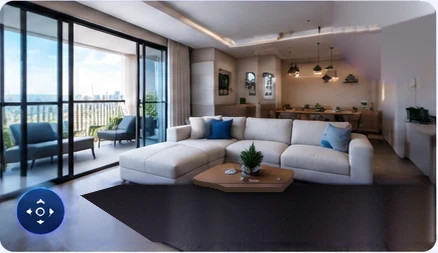
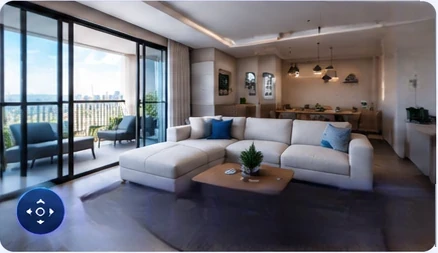
fix(fachada): foto da apresentacao digital preenchida com o LaMa
O preenchimento feito a mao (tapete liso, mesa desenhada) nao convencia. O
selo 360 e a faixa de miniaturas agora sao preenchidos pelo LaMa
(Carve/LaMa-ONNX, local): tapete com textura, sombra da mesa e o canto do
teto/parede saem naturais. A moldura arredondada e refeita depois.

Changed region(s): [[0.742, 0.0, 1.0, 0.332], [0.1781, 0.6917, 0.6826, 0.9684], [0.742, 0.7194, 1.0, 0.9684]]

diff --git a/fachada/README.md b/fachada/README.md
@@ -73,7 +73,8 @@ O logo oficial (trocado em 28/10, fonte em `marca-fonte/`) está em `assets/logo
 e no rodapé. A aba Planta do novo visual usa `assets/novo-planta.webp`, a referência
 detalhada fornecida depois dos PDFs. Em 28/10 o selo "360°" e a faixa de
 miniaturas, desenhados dentro de `assets/novo-tour.webp`, foram apagados da foto:
-o fundo (teto, sanca, parede e tapete) foi refeito na própria imagem.
+o fundo foi preenchido pelo LaMa (modelo de preenchimento de imagem,
+`Carve/LaMa-ONNX`, rodado localmente), que refez teto, parede, tapete e a sombra da mesa.
 
 Desde 26/10 o LIV não mostra mais o selo escuro no topo da página: o viewer não
 importa `marca-liv.js`, e a arte do logo (`marca-telhado.webp`) virou um letreiro em pé na laje da torre, com estrutura
